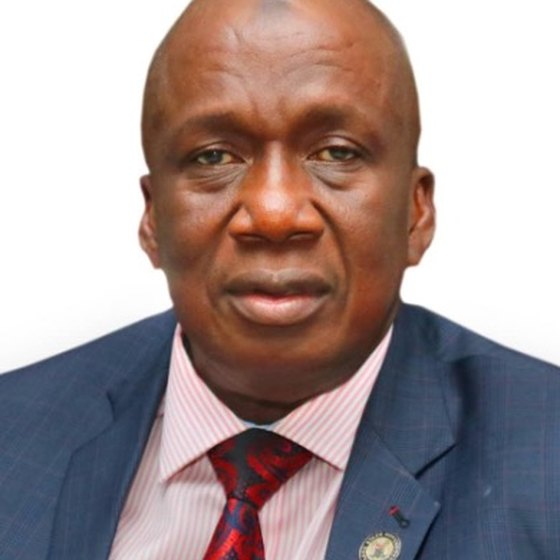
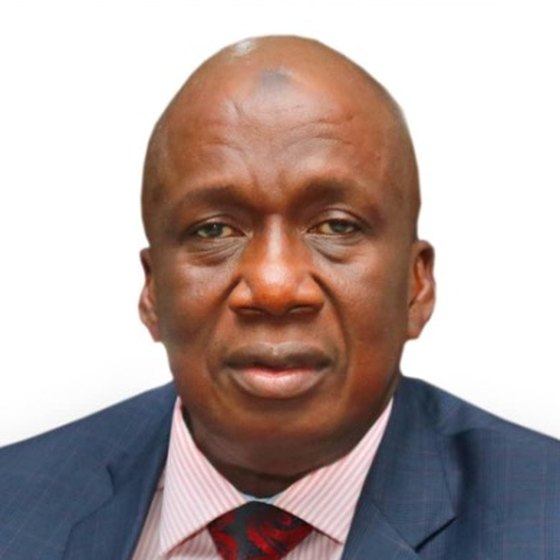
Add files via upload

diff --git a/src/App.jsx b/src/App.jsx
@@ -338,9 +338,13 @@ function Accordion({ items }) {
       </div>))}</div>
   )
 }
-const LEADERS = [
-  { img: '/leader-hc.jpg', name: 'Mrs Folashade Ambrose-Medebem', role: 'Honourable Commissioner', body: 'Leads the Ministry of Commerce, Cooperatives, Trade and Investment, driving cooperative development, MSME growth and investment across Lagos State.' },
-  { img: '/leader-ps.jpg', name: 'Mr Babatunde Onigbanjo', role: 'Permanent Secretary', body: 'Oversees the administration of the Ministry and the delivery of its cooperative, trade and investment mandate across the area offices.' },
+const LEADERS_PRINCIPAL = [
+  { img: '/leader-gov.jpg', initials: 'BS', name: 'Mr Babajide Sanwo-Olu', role: 'Executive Governor', body: 'Governor of Lagos State, championing the cooperative economy and the \u20A610 billion LASMECO financing initiative for MSME growth and inclusion.' },
+  { img: '/leader-deputy.jpg', initials: 'OH', name: 'Dr Obafemi Hamzat', role: 'Deputy Governor', body: 'Deputy Governor of Lagos State, supporting the administration\u2019s economic empowerment and grassroots development agenda.' },
+]
+const LEADERS_MINISTRY = [
+  { img: '/leader-hc.jpg', initials: 'FA', name: 'Mrs Folashade Ambrose-Medebem', role: 'Honourable Commissioner', body: 'Leads the Ministry of Commerce, Cooperatives, Trade and Investment, driving cooperative development, MSME growth and investment across Lagos State.' },
+  { img: '/leader-ps.jpg', initials: 'BO', name: 'Mr Babatunde Onigbanjo', role: 'Permanent Secretary', body: 'Oversees the administration of the Ministry and the delivery of its cooperative, trade and investment mandate across the area offices.' },
   { img: '/leader-dir.jpg', initials: 'AA', name: 'Dr Adeyinka Adeyemi', role: 'Director of Cooperatives', body: 'Heads the Directorate of Cooperative Services, responsible for the registration, supervision and audit of cooperative societies State-wide.' },
 ]
 const ABOUT_ITEMS = [
@@ -350,6 +354,20 @@ const ABOUT_ITEMS = [
   { q: 'QooP analytics', a: 'QooP is the source of member and MSME analytics. Its KYC and enterprise data flows one way into CoopEco to power member profiles and explainable, advisory credit scoring for LASMECO.' },
   { q: 'The platform (CoopEco)', a: 'MCCTI CoopEco unifies the registry, member analytics, LASMECO financing, wallets and governance intelligence into a single Ministry-owned platform, with role-aware workspaces and live oversight for leadership.' },
 ]
+function LeaderPhoto({ l }) {
+  const [err, setErr] = useState(false)
+  return (l.img && !err)
+    ? <img src={l.img} alt={l.name} loading="lazy" onError={() => setErr(true)} />
+    : <span className="leader-mono">{l.initials}</span>
+}
+function LeaderCard({ l, i }) {
+  return (
+    <Reveal className="leader-card" delay={i * 80} tag="article">
+      <div className="leader-photo"><LeaderPhoto l={l} /><span className="leader-ring" aria-hidden="true" /></div>
+      <div className="leader-body"><span className="leader-role">{l.role}</span><h3>{l.name}</h3><p>{l.body}</p></div>
+    </Reveal>
+  )
+}
 function Landing({ area, setArea, onEnter }) {
   const current = AREA_LENS.find((a) => a.id === area) || AREA_LENS[0]
   return (
@@ -396,12 +414,11 @@ function Landing({ area, setArea, onEnter }) {
         <div className="persona-grid">{PERSONAS.map(([t, d]) => (<div className="persona" key={t}><span className="persona-t">{t}</span><span className="persona-d">{d}</span></div>))}</div>
       </section>
       <section className="leaders" id="leadership">
-        <div className="section-head"><p className="eyebrow"><span className="eb-dot" />Leadership</p><h2>Stewards of the cooperative economy</h2><p className="section-sub">The Ministry’s leadership provides the policy direction, oversight and governance behind MCCTI CoopEco.</p></div>
-        <div className="leader-grid">{LEADERS.map((l, i) => (
-          <Reveal className="leader-card" key={l.name} delay={i * 90} tag="article">
-            <div className="leader-photo">{l.img ? <img src={l.img} alt={l.name} loading="lazy" /> : <span className="leader-mono">{l.initials}</span>}<span className="leader-ring" aria-hidden="true" /></div>
-            <div className="leader-body"><span className="leader-role">{l.role}</span><h3>{l.name}</h3><p>{l.body}</p></div>
-          </Reveal>))}</div>
+        <div className="section-head"><p className="eyebrow"><span className="eb-dot" />Leadership</p><h2>Stewards of the cooperative economy</h2><p className="section-sub">The State and Ministry leadership provide the policy direction, oversight and governance behind MCCTI CoopEco.</p></div>
+        <p className="leader-group-lab">Executive leadership</p>
+        <div className="leader-grid two">{LEADERS_PRINCIPAL.map((l, i) => <LeaderCard l={l} i={i} key={l.name} />)}</div>
+        <p className="leader-group-lab">Ministry leadership</p>
+        <div className="leader-grid">{LEADERS_MINISTRY.map((l, i) => <LeaderCard l={l} i={i} key={l.name} />)}</div>
       </section>
       <section className="about" id="about">
         <div className="section-head"><p className="eyebrow"><span className="eb-dot" />About</p><h2>What sits behind the platform</h2><p className="section-sub">The institutions and programmes that MCCTI CoopEco brings together.</p></div>
@@ -850,10 +867,11 @@ function SocietyWorkspace({ ctx }) {
         <div className="society-top"><div><h3>{mine.name}</h3><p className="detail-sub">{mine.trackingId} &middot; {mine.areaOffice} area office &middot; {mine.sector}</p></div><div className="detail-chips"><StatusChip status={mine.status} /><StatusChip status={mine.cap15} kind="cap15" /></div></div>
         <div className="society-figs"><div><span className="lf-lab">Members</span><span className="society-fig">{Number(mine.members || 0).toLocaleString('en-NG')}</span></div><div><span className="lf-lab">Contributions</span><span className="society-fig">{fmtNaira(mine.contributions)}</span></div><div><span className="lf-lab">Custodian</span><span className="society-fig sm">{mine.custodian || '—'}</span></div></div>
         <div className="society-actions">
-          {mine.source === 'SEKAT' ? <span className="returned-flag" style={{ color: '#9DC0E8' }}>Mirrored from SEKAT (read-only). Returns are filed in SEKAT.</span> : <button className="btn btn-gold btn-sm" onClick={() => setMode('returns')}>{mine.returns ? 'Re-file annual returns' : 'File annual returns'}</button>}
+          {mine.source === 'SEKAT' ? <span className="returned-flag" style={{ color: '#2E5C88' }}>Mirrored from SEKAT (read-only). Returns are filed in SEKAT.</span> : <button className="btn btn-gold btn-sm" onClick={() => setMode('returns')}>{mine.returns ? 'Re-file annual returns' : 'File annual returns'}</button>}
           {mine.status === 'Returned' && <span className="returned-flag">Returned for correction. Review the trail and re-file.</span>}
         </div>
       </div>
+      {mine.source !== 'SEKAT' && <div className="returns-box"><h4>Savings &amp; esusu</h4><CoopEsusu coop={mine} ctx={ctx} /></div>}
       <div className="trail-box"><h4>Audit trail</h4><AuditTrail trackingId={mine.trackingId} refreshKey={coops.length} /></div>
     </div>
   )
@@ -1101,6 +1119,7 @@ function MemberWorkspace({ ctx }) {
         <div className="society-actions"><button className="btn btn-gold btn-sm" onClick={() => setMode('apply')}>Apply for LASMECO finance</button></div>
       </div>
       <div className="returns-box"><h4>Your credit score</h4><CreditScoreCard m={mine} /></div>
+      <div className="returns-box"><h4>Wallet &amp; savings</h4><MemberWallet member={mine} /></div>
       <div className="trail-box"><h4>Your LASMECO applications</h4>{myLoans.length ? <LoanTable loans={myLoans} onOpen={setSel} /> : <p className="muted-line">No applications yet. Apply above; there are no upfront fees.</p>}</div>
     </div>
   )
@@ -1370,6 +1389,88 @@ function LasmecoOverview({ ctx }) {
 }
 
 
+/* =============================== STAGE 6 ===============================
+   Digital Wallet & Payments. Member wallets, cooperative savings pools and a
+   rotating esusu / ajo, with transactions. Payments run through a stub that
+   uses Paystack or Flutterwave when their keys are configured.
+   ====================================================================== */
+async function getWallet(id) { return (await kvGet('wallet:' + id)) || { id, balance: 0, txns: [] } }
+async function walletTxn(id, type, amount, note, by) {
+  const w = await getWallet(id); const amt = Number(amount) || 0
+  const credit = ['credit', 'payout', 'topup', 'contribution-in'].includes(type)
+  const bal = Math.max(0, (w.balance || 0) + (credit ? amt : -amt))
+  const txn = { tid: 'T' + Date.now() + Math.floor(Math.random() * 1000), type, amount: amt, note: note || '', by: by || '', at: new Date().toISOString() }
+  const next = { id, balance: bal, txns: [txn, ...(w.txns || [])].slice(0, 60), esusu: w.esusu }
+  await kvSet('wallet:' + id, next); return next
+}
+async function walletTransfer(from, to, amount, note, by) { await walletTxn(from, 'debit', amount, note, by); return walletTxn(to, 'credit', amount, note, by) }
+const mWallet = (memberId) => 'M:' + memberId
+const cWallet = (coopId) => 'C:' + coopId
+
+function TxnList({ txns }) {
+  if (!txns?.length) return <p className="muted-line">No transactions yet.</p>
+  const label = { topup: 'Added funds', credit: 'Received', debit: 'Sent', payout: 'Esusu payout', 'contribution-in': 'Contribution', 'fee': 'Fee paid' }
+  return (
+    <div className="txns">{txns.map((t) => (
+      <div className="txn" key={t.tid}>
+        <span className={cx('txn-dir', ['topup', 'credit', 'payout', 'contribution-in'].includes(t.type) ? 'in' : 'out')}>{['topup', 'credit', 'payout', 'contribution-in'].includes(t.type) ? '+' : '\u2212'}{fmtNaira(t.amount)}</span>
+        <span className="txn-mid"><strong>{label[t.type] || t.type}</strong>{t.note ? ' \u00b7 ' + t.note : ''}</span>
+        <span className="txn-at">{fmtDate(t.at)}</span>
+      </div>))}</div>
+  )
+}
+function MemberWallet({ member }) {
+  const [w, setW] = useState(null), [amt, setAmt] = useState(''), [busy, setBusy] = useState(false), [coops, setCoops] = useState([])
+  const id = mWallet(member.memberId)
+  const reload = useCallback(() => { getWallet(id).then(setW); listCoops().then(setCoops) }, [id])
+  useEffect(() => { reload() }, [reload])
+  if (!w) return <p className="muted-line">Loading wallet\u2026</p>
+  const coop = coops.find((c) => c.name === member.coop)
+  const topup = async () => { const a = Number(amt) || 0; if (a <= 0) return; setBusy(true); await walletTxn(id, 'topup', a, 'Card top-up', member.name); await reload(); setAmt(''); setBusy(false) }
+  const save = async () => { const a = Number(amt) || 0; if (a <= 0) { alert('Enter an amount.'); return } if (a > w.balance) { alert('Insufficient wallet balance. Add funds first.'); return } if (!coop) { alert('Your cooperative is not on the platform yet.'); return } setBusy(true); await walletTransfer(id, cWallet(coop.trackingId), a, 'Savings to ' + coop.name, member.name); await reload(); setAmt(''); setBusy(false) }
+  return (
+    <div className="wallet">
+      <div className="wallet-top"><div><span className="wallet-lab">Wallet balance</span><span className="wallet-bal">{fmtNaira(w.balance)}</span></div><span className="wallet-chip">Digital wallet</span></div>
+      <div className="wallet-actions">
+        <input type="number" value={amt} onChange={(e) => setAmt(e.target.value)} placeholder="Amount (\u20A6)" />
+        <button className="btn btn-gold btn-sm" onClick={topup} disabled={busy}>Add funds</button>
+        <button className="btn btn-outline btn-sm" onClick={save} disabled={busy}>Save to cooperative</button>
+      </div>
+      <p className="panel-note">Top-ups and transfers are demo movements until Paystack or Flutterwave is connected. Savings move into your cooperative\u2019s pool.</p>
+      <h4 className="wallet-h">Recent transactions</h4>
+      <TxnList txns={w.txns} />
+    </div>
+  )
+}
+function CoopEsusu({ coop, ctx }) {
+  const [w, setW] = useState(null), [members, setMembers] = useState([]), [busy, setBusy] = useState(false)
+  const id = cWallet(coop.trackingId)
+  const reload = useCallback(() => { getWallet(id).then(setW); listMembers().then(setMembers) }, [id])
+  useEffect(() => { reload() }, [reload])
+  if (!w) return <p className="muted-line">Loading savings\u2026</p>
+  const roster = members.filter((m) => m.coop === coop.name)
+  const nextIdx = (w.esusu?.next || 0) % Math.max(1, roster.length)
+  const nextMember = roster[nextIdx]
+  const disburse = async () => {
+    if (!roster.length) { alert('No members to pay out to yet.'); return }
+    if (w.balance <= 0) { alert('The savings pool is empty.'); return }
+    setBusy(true)
+    const payout = w.balance
+    await walletTxn(id, 'debit', payout, 'Esusu payout to ' + nextMember.name, ctx.name)
+    await walletTxn(mWallet(nextMember.memberId), 'payout', payout, 'Esusu payout from ' + coop.name, ctx.name)
+    const cur = await getWallet(id); await kvSet('wallet:' + id, { ...cur, esusu: { next: nextIdx + 1 } })
+    await reload(); setBusy(false)
+  }
+  return (
+    <div className="wallet">
+      <div className="wallet-top"><div><span className="wallet-lab">Cooperative savings pool (esusu / ajo)</span><span className="wallet-bal">{fmtNaira(w.balance)}</span></div><span className="wallet-chip">{roster.length} members</span></div>
+      <div className="esusu-next"><span>Next payout goes to</span><strong>{nextMember ? nextMember.name : '\u2014'}</strong>{ctx.role === 'society' || ctx.role === 'leadership' ? <button className="btn btn-gold btn-sm" onClick={disburse} disabled={busy}>{busy ? 'Paying\u2026' : 'Disburse to next member'}</button> : null}</div>
+      <p className="panel-note">Members save into the pool from their wallets. Esusu pays the pool to each member in rotation. Demo movements until payments are connected.</p>
+      <h4 className="wallet-h">Pool activity</h4>
+      <TxnList txns={w.txns} />
+    </div>
+  )
+}
 const WORKSPACES = { society: SocietyWorkspace, member: MemberWorkspace, officer: OfficerWorkspace, auditor: AuditorWorkspace, sterling: SterlingWorkspace, boi: BoiWorkspace, assetmatrix: AssetMatrixWorkspace, accelerator: AcceleratorWorkspace, leadership: LeadershipOverview }
 function Dashboard({ session, onSignOut }) {
   const p = session.profile
@@ -1435,7 +1536,7 @@ export default function App() {
 }
 
 const CSS = `
-:root{--ink:#F5F7F3;--ink-2:#FFFFFF;--green:#1C8A4F;--green-panel:#EAF3EC;--line:rgba(20,50,35,.13);--line-soft:rgba(20,50,35,.07);--gold:#B0842F;--gold-soft:#C29A52;--cream:#17241C;--cream-ink:#17241C;--sage:#48524B;--sage-dim:#78837C;--err:#C0533A;--serif:'Lora',Georgia,'Times New Roman',serif;--sans:'Inter',system-ui,-apple-system,sans-serif;--mono:'IBM Plex Mono',ui-monospace,monospace}
+:root{--ink:#F5F7F3;--ink-2:#FFFFFF;--green:#1C8A4F;--green-panel:#EAF3EC;--line:rgba(20,50,35,.13);--line-soft:rgba(20,50,35,.07);--gold:#8A681E;--gold-soft:#93701F;--cream:#17241C;--cream-ink:#17241C;--sage:#48524B;--sage-dim:#78837C;--err:#C0533A;--serif:'Lora',Georgia,'Times New Roman',serif;--sans:'Inter',system-ui,-apple-system,sans-serif;--mono:'IBM Plex Mono',ui-monospace,monospace}
 *{box-sizing:border-box}html{scroll-behavior:smooth}body{margin:0}
 .page{background:radial-gradient(1100px 560px at 85% -12%,rgba(28,138,79,.07),transparent 60%),radial-gradient(900px 500px at -5% 15%,rgba(176,132,47,.05),transparent 55%),var(--ink);color:var(--sage);font-family:var(--sans);-webkit-font-smoothing:antialiased;min-height:100vh;overflow-x:hidden;display:flex;flex-direction:column}
 .eyebrow{font-family:var(--mono);font-size:11px;letter-spacing:.22em;text-transform:uppercase;color:var(--gold);margin:0 0 16px;display:flex;align-items:center;gap:9px}
@@ -1462,7 +1563,9 @@ html{scroll-behavior:smooth}section[id]{scroll-margin-top:84px}
 @media(prefers-reduced-motion:reduce){.reveal{opacity:1;transform:none;transition:none}html{scroll-behavior:auto}}
 /* leadership */
 section.leaders{max-width:1200px;margin:0 auto;padding:64px 40px}
-.leader-grid{display:grid;grid-template-columns:repeat(3,1fr);gap:24px;margin-top:36px}
+.leader-grid{display:grid;grid-template-columns:repeat(3,1fr);gap:24px;margin-top:18px}
+.leader-grid.two{grid-template-columns:repeat(2,1fr);max-width:780px;margin-left:auto;margin-right:auto}
+.leader-group-lab{font-family:var(--mono);font-size:11px;letter-spacing:.1em;text-transform:uppercase;color:var(--gold);margin-top:34px}
 .leader-card{background:var(--ink-2);border:1px solid var(--line-soft);border-radius:12px;overflow:hidden;transition:transform .3s cubic-bezier(.2,.7,.2,1),box-shadow .3s ease,border-color .3s ease}
 .leader-card:hover{transform:translateY(-6px);box-shadow:0 26px 50px -30px rgba(20,50,35,.5);border-color:var(--line)}
 .leader-photo{position:relative;aspect-ratio:1/1;background:linear-gradient(160deg,var(--green-panel),#dfeee2);overflow:hidden}
@@ -1635,9 +1738,26 @@ section.lens,section.modules,section.arc,section.personas,section.quote{max-widt
 .returned-flag{color:var(--err);font-size:13px}
 .fee-banner{display:flex;align-items:center;justify-content:space-between;gap:16px;flex-wrap:wrap;background:rgba(198,161,91,.08);border:1px solid var(--line);border-radius:6px;padding:14px 18px;font-size:14px;color:var(--sage)}
 .fee-banner strong{color:var(--cream)}
+.wallet{display:flex;flex-direction:column;gap:16px}
+.wallet-top{display:flex;align-items:flex-start;justify-content:space-between;gap:16px}
+.wallet-lab{display:block;font-family:var(--mono);font-size:10px;letter-spacing:.08em;text-transform:uppercase;color:var(--sage-dim)}
+.wallet-bal{display:block;font-family:var(--serif);font-size:34px;font-weight:600;color:var(--cream);margin-top:4px}
+.wallet-chip{font-family:var(--mono);font-size:10px;letter-spacing:.06em;text-transform:uppercase;color:var(--green);background:rgba(28,138,79,.12);padding:4px 8px;border-radius:2px;white-space:nowrap;height:fit-content}
+.wallet-actions{display:flex;gap:10px;flex-wrap:wrap;align-items:center}
+.wallet-actions input{background:var(--ink);border:1px solid var(--line);border-radius:5px;padding:10px 12px;color:var(--cream);font-size:14px;max-width:170px}
+.wallet-actions input:focus{outline:none;border-color:var(--green)}
+.wallet-h{font-size:13px;margin-top:2px}
+.txns{display:flex;flex-direction:column}
+.txn{display:grid;grid-template-columns:120px 1fr auto;gap:12px;align-items:center;padding:10px 0;border-bottom:1px solid var(--line-soft);font-size:13px}
+.txn:last-child{border-bottom:none}
+.txn-dir{font-family:var(--mono);font-weight:600}.txn-dir.in{color:var(--green)}.txn-dir.out{color:var(--err)}
+.txn-mid{color:var(--sage)}.txn-mid strong{color:var(--cream);font-weight:600}
+.txn-at{font-family:var(--mono);font-size:11px;color:var(--sage-dim);white-space:nowrap}
+.esusu-next{display:flex;align-items:center;gap:14px;flex-wrap:wrap;background:var(--ink);border:1px solid var(--line-soft);border-radius:8px;padding:14px 16px}
+.esusu-next>span{font-size:13px;color:var(--sage-dim)}.esusu-next strong{color:var(--cream);font-family:var(--serif);font-size:16px;margin-right:auto}
 .src-badge{font-family:var(--mono);font-size:9px;letter-spacing:.08em;padding:2px 6px;border-radius:2px;margin-left:8px;vertical-align:middle;text-transform:uppercase}
-.src-sekat{background:rgba(90,140,200,.16);color:#9DC0E8}.src-mccti{background:rgba(198,161,91,.14);color:var(--gold-soft)}
-.ro-note{background:rgba(90,140,200,.08);border:1px solid rgba(90,140,200,.28);color:#B9D2EC;border-radius:6px;padding:16px 18px;font-size:13px;line-height:1.55;margin-bottom:22px}
+.src-sekat{background:rgba(90,140,200,.16);color:#2E5C88}.src-mccti{background:rgba(198,161,91,.14);color:var(--gold-soft)}
+.ro-note{background:rgba(90,140,200,.08);border:1px solid rgba(90,140,200,.28);color:#2E5C88;border-radius:6px;padding:16px 18px;font-size:13px;line-height:1.55;margin-bottom:22px}
 .sekat{background:var(--ink-2);border:1px solid var(--line-soft);border-radius:8px;padding:28px;display:flex;flex-direction:column;gap:20px;max-width:660px}
 .sekat-flow{display:flex;align-items:center;gap:16px;flex-wrap:wrap}
 .node{flex:1;min-width:150px;background:var(--ink);border:1px solid var(--line-soft);border-radius:6px;padding:18px;display:flex;flex-direction:column;gap:6px;font-family:var(--serif);font-weight:600;font-size:16px;color:var(--cream)}
@@ -1665,7 +1785,7 @@ section.lens,section.modules,section.arc,section.personas,section.quote{max-widt
 .privacy-row h4{font-size:16px;margin-bottom:6px}.privacy-row p{font-size:14px;line-height:1.6;color:var(--sage)}
 .data-controls .dc-actions{display:flex;gap:12px;flex-wrap:wrap;align-items:center;margin-bottom:14px}
 .dc-confirm{display:flex;align-items:center;gap:12px;font-size:13px;color:var(--err);flex-wrap:wrap}
-.viewas-banner{display:flex;align-items:center;justify-content:space-between;gap:16px;background:rgba(90,140,200,.1);border:1px solid rgba(90,140,200,.3);color:#C7DBF0;border-radius:6px;padding:12px 18px;margin-bottom:22px;font-size:14px}
+.viewas-banner{display:flex;align-items:center;justify-content:space-between;gap:16px;background:rgba(90,140,200,.1);border:1px solid rgba(90,140,200,.3);color:#2E5C88;border-radius:6px;padding:12px 18px;margin-bottom:22px;font-size:14px}
 .score-card{display:flex;flex-direction:column;gap:20px}
 .score-head{display:flex;align-items:center;justify-content:space-between;gap:20px;flex-wrap:wrap}
 .score-num{display:flex;align-items:baseline;gap:8px}

diff --git a/DEPLOY_GUIDE.md b/DEPLOY_GUIDE.md
@@ -1,4 +1,4 @@
-# MCCTI CoopEco - Deploy Guide (Stages 1 to 5)
+# MCCTI CoopEco - Deploy Guide (Stages 1 to 6)
 
 A real, deployable Vite + React project. You do not need to code. Follow one
 step at a time.
@@ -208,6 +208,16 @@ smooth-scroll to each section. Headline figures count up on scroll, sections fad
 in as they enter view, and cards lift on hover; all motion respects the visitor's
 reduced-motion setting. When you upload to GitHub, include the `public/` folder so
 the portraits ship with the site.
+
+## Stage 6: Digital Wallet & esusu
+Members now have a digital wallet (balance, add funds, and Save to cooperative)
+with a transaction history. Each cooperative has a savings pool with a rotating
+esusu / ajo: members save into the pool from their wallets, and the society (or
+leadership) disburses the pool to each member in turn. Wallet and pool movements
+are demo transactions until Paystack or Flutterwave is connected via
+PAYSTACK_SECRET_KEY or FLUTTERWAVE_SECRET_KEY; the same keys will drive the
+cooperative fee payments. The database policies for wallets are already included
+in `supabase_setup.sql` (the wallet: rows), so no extra SQL step is needed.
 
 ## Environment variables
 See `.env.example`. For local testing copy it to `.env.local` and fill it in.